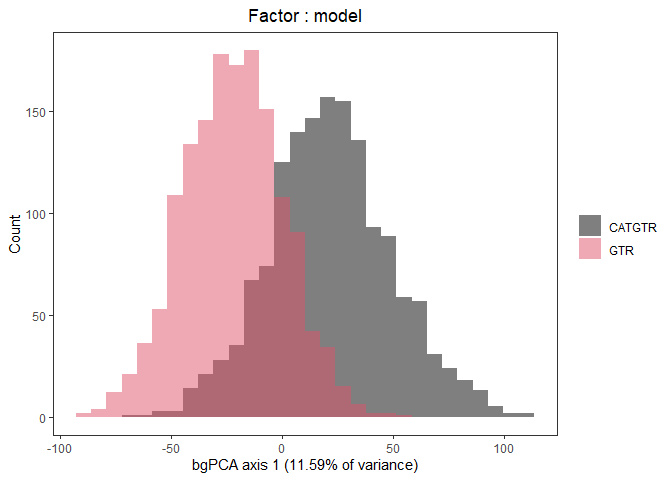
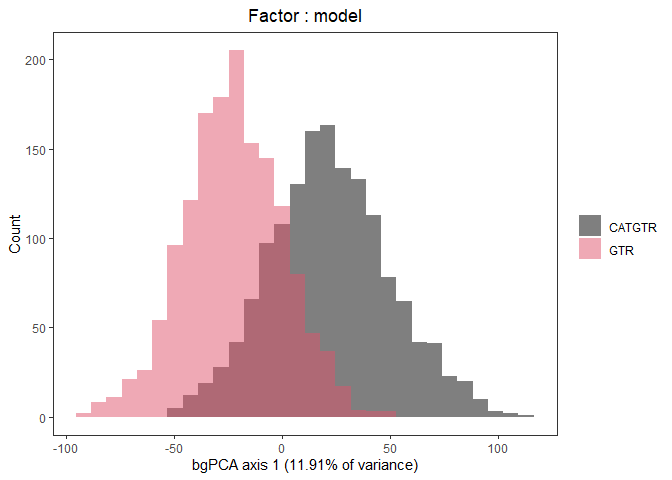
readme fix

diff --git a/README.md b/README.md
@@ -1,5 +1,5 @@
 
-# `chronospace`: statistical exploration of time-calibrated phylogenies and the relative impact of methodological decisions.
+## `chronospace`: statistical exploration of time-calibrated phylogenies and the relative impact of methodological decisions.
 
 <img src="man/figures/chronospace_hex.png" align="right" width="200"/>
 
@@ -26,12 +26,12 @@ summarizing variation in node ages produced by specific methodological
 choices, and estimates their impact using a Sum of squares (SSQ)
 approach for measuring effect size.
 
-*Note: this repository addresses the version of `chronospace` described
+**Note: this repository addresses the version of `chronospace` described
 in Mongiardino Koch and Milla Carmona (in preparation). If you are
 interested in the data and procedures described in Mongiardino Koch et
 al. 2022 eLife paper (on which this version of the package is based), go
 to the \[chronospaces_eLife repository\]
-(<https://github.com/mongiardino/chronospaces_eLife/tree/main>)*
+(<https://github.com/mongiardino/chronospaces_eLife/tree/main>)**
 
 ## Installation
 
@@ -41,66 +41,6 @@ The development version of `chronospace` can be installed from
 ``` r
 # install.packages("devtools")
 devtools::install_github("mongiardino/chronospace")
-#> Downloading GitHub repo mongiardino/chronospace@HEAD
-#> rlang     (1.1.1   -> 1.1.3  ) [CRAN]
-#> glue      (1.6.2   -> 1.7.0  ) [CRAN]
-#> cli       (3.6.1   -> 3.6.2  ) [CRAN]
-#> utf8      (1.2.3   -> 1.2.4  ) [CRAN]
-#> fansi     (1.0.4   -> 1.0.6  ) [CRAN]
-#> stringi   (1.7.12  -> 1.8.3  ) [CRAN]
-#> Rcpp      (1.0.10  -> 1.0.12 ) [CRAN]
-#> igraph    (1.4.2   -> 2.0.1.1) [CRAN]
-#> fastmatch (1.1-3   -> 1.1-4  ) [CRAN]
-#> digest    (0.6.31  -> 0.6.34 ) [CRAN]
-#> fs        (1.6.2   -> 1.6.3  ) [CRAN]
-#> ps        (1.7.5   -> 1.7.6  ) [CRAN]
-#> processx  (3.8.1   -> 3.8.3  ) [CRAN]
-#> jsonlite  (1.8.7   -> 1.8.8  ) [CRAN]
-#> dplyr     (1.1.2   -> 1.1.4  ) [CRAN]
-#> purrr     (1.0.1   -> 1.0.2  ) [CRAN]
-#> tidyr     (1.3.0   -> 1.3.1  ) [CRAN]
-#> expm      (0.999-7 -> 0.999-9) [CRAN]
-#> maps      (3.4.1   -> 3.4.2  ) [CRAN]
-#> curl      (5.0.0   -> 5.2.0  ) [CRAN]
-#> polyclip  (1.10-4  -> 1.10-6 ) [CRAN]
-#> Installing 21 packages: rlang, glue, cli, utf8, fansi, stringi, Rcpp, igraph, fastmatch, digest, fs, ps, processx, jsonlite, dplyr, purrr, tidyr, expm, maps, curl, polyclip
-#> Installing packages into 'C:/Users/pablo/AppData/Local/Temp/Rtmp2XRwHL/temp_libpath3bc073242a16'
-#> (as 'lib' is unspecified)
-#> package 'rlang' successfully unpacked and MD5 sums checked
-#> package 'glue' successfully unpacked and MD5 sums checked
-#> package 'cli' successfully unpacked and MD5 sums checked
-#> package 'utf8' successfully unpacked and MD5 sums checked
-#> package 'fansi' successfully unpacked and MD5 sums checked
-#> package 'stringi' successfully unpacked and MD5 sums checked
-#> package 'Rcpp' successfully unpacked and MD5 sums checked
-#> package 'igraph' successfully unpacked and MD5 sums checked
-#> package 'fastmatch' successfully unpacked and MD5 sums checked
-#> package 'digest' successfully unpacked and MD5 sums checked
-#> package 'fs' successfully unpacked and MD5 sums checked
-#> package 'ps' successfully unpacked and MD5 sums checked
-#> package 'processx' successfully unpacked and MD5 sums checked
-#> package 'jsonlite' successfully unpacked and MD5 sums checked
-#> package 'dplyr' successfully unpacked and MD5 sums checked
-#> package 'purrr' successfully unpacked and MD5 sums checked
-#> package 'tidyr' successfully unpacked and MD5 sums checked
-#> package 'expm' successfully unpacked and MD5 sums checked
-#> package 'maps' successfully unpacked and MD5 sums checked
-#> package 'curl' successfully unpacked and MD5 sums checked
-#> package 'polyclip' successfully unpacked and MD5 sums checked
-#> 
-#> The downloaded binary packages are in
-#>  C:\Users\pablo\AppData\Local\Temp\RtmpCuFT47\downloaded_packages
-#> ── R CMD build ─────────────────────────────────────────────────────────────────
-#>          checking for file 'C:\Users\pablo\AppData\Local\Temp\RtmpCuFT47\remotes4fa875a53464\mongiardino-chronospace-7627484/DESCRIPTION' ...  ✔  checking for file 'C:\Users\pablo\AppData\Local\Temp\RtmpCuFT47\remotes4fa875a53464\mongiardino-chronospace-7627484/DESCRIPTION'
-#>       ─  preparing 'chronospace':
-#>    checking DESCRIPTION meta-information ...     checking DESCRIPTION meta-information ...   ✔  checking DESCRIPTION meta-information
-#>       ─  checking for LF line-endings in source and make files and shell scripts
-#>   ─  checking for empty or unneeded directories
-#>       ─  building 'chronospace_0.0.0.9000.tar.gz'
-#>      
-#> 
-#> Installing package into 'C:/Users/pablo/AppData/Local/Temp/Rtmp2XRwHL/temp_libpath3bc073242a16'
-#> (as 'lib' is unspecified)
 ```
 
 ## The data set
@@ -115,12 +55,12 @@ PhyloBayes (Lartillot et al. 2013). These were all run using the same
 constrained topology (as required by the `chronospace` suite of
 functions), but varying two methodological decisions:
 
-1)  *Gene subsampling strategy*: three different sets of 100 genes,
+1)  **Gene subsampling strategy**: three different sets of 100 genes,
     subsampled from a larger phylogenomic data set based on their level
     of clock-likeness or phylogenetic signal, or otherwise at random,
     were assessed.
 
-2)  *Model of molecular evolution*: each gene subsample was also run
+2)  **Model of molecular evolution**: each gene subsample was also run
     under two models of molecular evolution, the site-homogeneous GTR+G
     and the site-heterogeneous CAT+GTR+G (Lartillot & Philippe 2004).
 
@@ -144,8 +84,8 @@ groups for loci choice and two for model of evolution); and `sample` -
 the fixed number of topologies to retain from each file (here we will
 sample 500 trees from each file for a total of 3000 trees).
 
-*Note: `extract_ages` will import the files in the order they appear in
-the folder; the list provided in `type` must follow this same order*
+**Note: `extract_ages` will import the files in the order they appear in
+the folder; the list provided in `type` must follow this same order**
 
 ``` r
 #load chronospace
@@ -206,16 +146,16 @@ the relative importance of each choice over node age estimation.
 #Summarize chronospace
 cspace <- chronospace(data)
 #>                 loci (%) model (%) Unaccounted (%)
-#> Total variation 14.73367   5.05925        80.20709
+#> Total variation  14.0042   5.19656        80.79924
 #> _________________________________________________________________________________
 #> --- Results for loci (clock/random/signal) ---
 #>               loci (%) model (%) Unaccounted (%)
-#> bgPC1(17.66%) 11.13891   0.20625         6.31974
-#> bgPC2(7.43%)   3.59476   0.09241         3.73849
+#> bgPC1(17.13%) 10.58553   0.25417         6.28537
+#> bgPC2(6.86%)   3.41867   0.09813         3.34235
 #> ---------------------------------------------------------------------------------
 #> --- Results for model (CATGTR/GTR) ---
 #>               loci (%) model (%) Unaccounted (%)
-#> bgPC1(11.59%)  0.51975   5.05925         6.01423
+#> bgPC1(11.91%)   0.5823   5.19656         6.12717
 #> ---------------------------------------------------------------------------------
 #>  * All percentages are relative to the total amount of variation in node ages
 ```
@@ -302,7 +242,7 @@ ltt_sensitivity(echinoid_dates, factor = 1, summary = "median")
 
 <img src="man/figures/README-unnamed-chunk-11-1.png" width="100%" />
 
-# References
+## References
 
 Lartillot N., & Philippe H. (2004). *A Bayesian mixture model for
 across-site heterogeneities in the amino-acid replacement process*. Mol.
